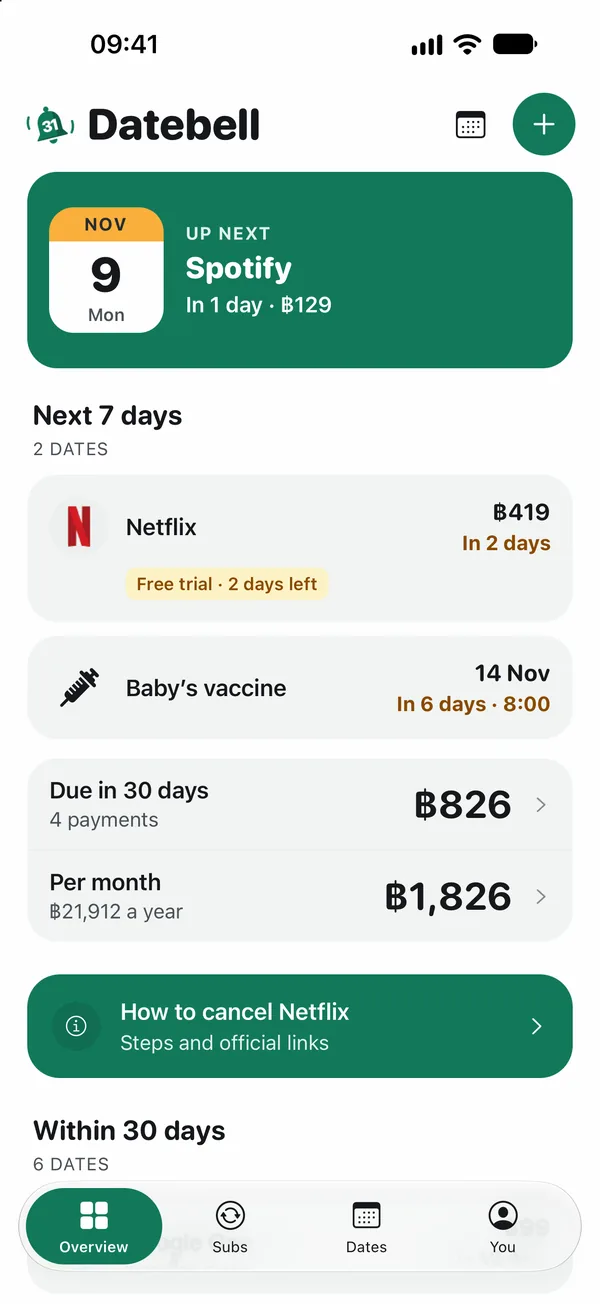
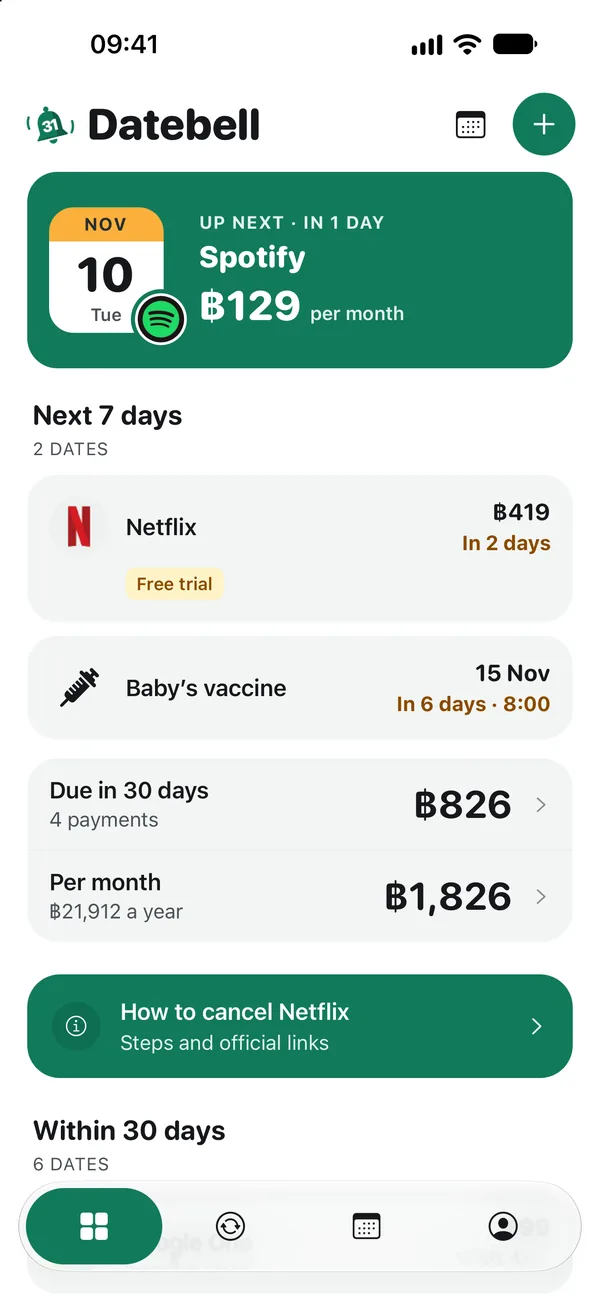
Website: 1.3.0 screens in the phone demo and link preview
Build 101 Simulator shots (icon-only tab bar, green card with service
logo, monthly total row on Subscriptions, new icons). Same six steps;
two English captions match the new screens. og.png phone shows the new
Home.

Claude-Session: https://claude.ai/code/session_01ERD6PwTw2P9cU9ZvoMyexE

diff --git a/index.html b/index.html
@@ -115,7 +115,7 @@ html[lang="th"] [data-l="th"],html[lang="en"] [data-l="en"]{display:revert}
 
   var STEPS={
     th:['เพิ่มค่าสมาชิก บัตร หรือนัดหมาย','รวมค่าสมาชิกไว้ที่เดียว เห็นยอดต่อเดือน','ใบขับขี่ พาสปอร์ต ประกัน เตือนก่อนหมดอายุ','นัดหมอ ฉีดวัคซีน เตือนล่วงหน้า','เปิดปฏิทิน รู้เลยว่าวันไหนจ่ายอะไร','แล้ว Datebell ก็เตือนก่อนถึงวัน'],
-    en:['Add a subscription, card or appointment','All your subscriptions in one place','Licence, passport, insurance: reminded before they expire','Doctor visits and vaccines, reminded ahead','See the whole month on a calendar','Then Datebell reminds you before the day']
+    en:['Add a subscription, card or appointment','All your subscriptions and the monthly total','Licence, passport, warranties: reminded before they expire','Doctor visits and vaccines, reminded ahead','See the whole month on a calendar','Then Datebell reminds you before the day']
   };
   var LABEL={th:'ขั้นที่ ',en:'Step '};
   var BADGE={th:'https://tools.applemarketingtools.com/api/badges/download-on-the-app-store/black/th-th',en:'img/badge-en.svg'};
